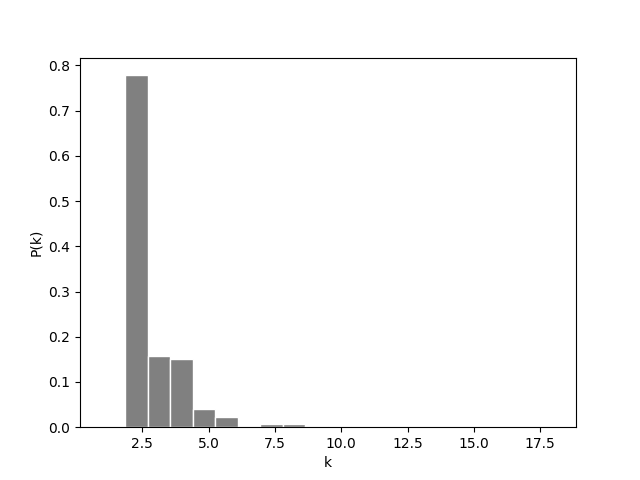
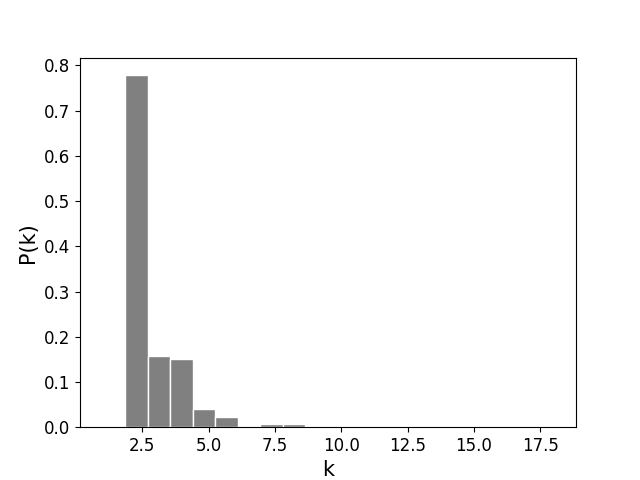
Compute small-world stats

diff --git a/Project/small_world.py b/Project/small_world.py
@@ -1,9 +1,12 @@
 import random
+import time
+
 import networkx as nx
 import numpy as np
 import os
 import pickle
 import matplotlib.pyplot as plt
+import pandas as pd
 from networkx import NetworkXNoPath
 from pprint import pprint
 
@@ -83,11 +86,14 @@ def plot_mean_path_N(net, connections, out_folder="", load=False, n_reps=100):
         f.close()
 
     fit = np.polyfit(np.log10(N), mean_path, 1)
+    fig = plt.figure()
     plt.plot(N, mean_path, 'ko-')
     plt.plot(N, fit[0] * np.log10(N) + fit[1], "k-")
     plt.xscale(u'log')
-    plt.xlabel("N")
-    plt.ylabel("D(N)")
+    plt.xlabel(r"$N$", fontsize=15)
+    plt.ylabel(r"$D(N)$", fontsize=15)
+    #plt.xticks(fontsize=12)
+    plt.yticks(fontsize=12)
     # plt.title(f'{seed}')
     plt.savefig(os.path.join(out_folder, 'mean_path_N.png'))
     plt.show()
@@ -99,15 +105,19 @@ def plot_hists(net, bins=20, out_folder=""):
     fig = plt.figure()
     plt.hist(node_degrees, bins=bins,
              density=True, color='grey', edgecolor='white')
-    plt.xlabel("k")
-    plt.ylabel("P(k)")
+    plt.xlabel("k", fontsize=15)
+    plt.ylabel("P(k)", fontsize=15)
+    plt.xticks(fontsize=12)
+    plt.yticks(fontsize=12)
     plt.savefig(os.path.join(out_folder, "PDF.png"))
 
     fig = plt.figure()
     plt.hist(node_degrees, bins=bins, cumulative=-1,
              density=True, color='grey', edgecolor='white')
-    plt.xlabel("k")
-    plt.ylabel("P(k)")
+    plt.xlabel("k", fontsize=15)
+    plt.ylabel("P(k)", fontsize=15)
+    plt.xticks(fontsize=12)
+    plt.yticks(fontsize=12)
     plt.savefig(os.path.join(out_folder, "CCDF.png"))
 
     fig = plt.figure()
@@ -120,8 +130,10 @@ def plot_hists(net, bins=20, out_folder=""):
     plt.plot(10**log_k, fit[0]*(10**log_k)**(-fit[1]), 'k-')
     plt.xscale(u'log')
     plt.title("PDF")
-    plt.xlabel("k")
-    plt.ylabel("P(k)")
+    plt.xlabel("k", fontsize=15)
+    plt.ylabel("P(k)", fontsize=15)
+    plt.xticks(fontsize=12)
+    plt.yticks(fontsize=12)
     plt.savefig(os.path.join(out_folder, "PDF_log.png"))
 
     fig = plt.figure()
@@ -129,17 +141,23 @@ def plot_hists(net, bins=20, out_folder=""):
              log=True, density=True, label='empirical', color='grey', edgecolor='white')
     plt.gca().set_xscale("log")
     plt.title("CCDF")
-    plt.xlabel("k")
-    plt.ylabel("P(k)")
+    plt.xlabel("k", fontsize=15)
+    plt.ylabel("P(k)", fontsize=15)
+    plt.xticks(fontsize=12)
+    plt.yticks(fontsize=12)
     plt.savefig(os.path.join(out_folder, "CCDF_log.png"))
 
 
-def transhipment_and_shortest_path(net, lines, out_folder=""):
+def shortest_routes(net, lines, out_folder=""):
     # Obtain the shortest path using Dijkstra's algorithm
     # paths = dict(nx.all_pairs_dijkstra_path(G, weight='weight'))
     transhipment_dict = {}
     path_length_dict = {}
+    i=0
     for source in net.nodes:
+        i+=1
+        print(f'Node {i}/{len(net.nodes)}')
+        start = time.time()
         for target in net.nodes:
             if target == source:
                 continue
@@ -156,24 +174,59 @@ def transhipment_and_shortest_path(net, lines, out_folder=""):
                         current_stop = next_stop
                     transhipment_dict[(source, target)] = transhipment_dict.get((source, target), [])
                     (transhipment_dict[(source, target)]).append(transhipments_count)
-                    print(f'Shortest path: {len(path)}')
-                    print(f'Number of transhipments: {transhipments_count}')
+                    #print(f'Shortest path: {len(path)}')
+                    #print(f'Number of transhipments: {transhipments_count}')
                 try:
                     path_length_dict[(source, target)] = len(path)
                 except NameError:
                     path_length_dict[(source, target)] = np.inf
-                print(transhipment_dict[(source, target)])
+                #print(transhipment_dict[(source, target)])
             except NetworkXNoPath as e:
                 print(e)
-
+        end = time.time()
+        print(f'Time: {end-start}')
     f = open(os.path.join(out_folder, 'transhipment_dict.pkl'), 'wb')
     pickle.dump(transhipment_dict, f)
     f.close()
     f = open(os.path.join(out_folder, 'path_length_dict.pkl'), 'wb')
     pickle.dump(path_length_dict, f)
     f.close()
+    #pprint(transhipment_dict)
 
-    pprint(transhipment_dict)
+
+def plot_shortest_routes(transhipment_dict, path_length_dict, out_folder=""):
+    fig = plt.figure()
+    unique_lengths, counts_lengths = np.unique(list(path_length_dict.values()), return_counts=True)
+    plt.plot(unique_lengths, counts_lengths/sum(counts_lengths), "ko-")
+    plt.xlabel(r"$l$", fontsize=15)
+    plt.ylabel(r"$P(l)$", fontsize=15)
+    plt.xticks(fontsize=12)
+    plt.yticks(fontsize=12)
+    plt.show()
+    plt.savefig(os.path.join(out_folder, "path_lengths.png"))
+
+    fig = plt.figure()
+    trans_dict_simple = {k: min(transhipment_dict[k]) for k in transhipment_dict.keys()}
+    unique_trans, counts_trans = np.unique(list(trans_dict_simple.values()), return_counts=True)
+    plt.plot(unique_trans, counts_trans/sum(counts_trans), "ko-")
+    plt.xlabel(r'$n_t$', fontsize=15)
+    plt.ylabel(r"$P(n_t)$", fontsize=15)
+    plt.xticks(fontsize=12)
+    plt.yticks(fontsize=12)
+    plt.show()
+    plt.savefig(os.path.join(out_folder, "transhipments.png"))
+
+
+def small_word_stats(net, out_folder=""):
+    net = nx.Graph(net.to_undirected())
+    rand_net = nx.random_reference(net, connectivity=True)
+    df = pd.DataFrame(index=[0], columns=["L_actual", "L_random", "C_actual", "C_random", "sigma"], dtype=float)
+    df['L_actual'] = nx.average_shortest_path_length(net)
+    df['L_random'] = nx.average_shortest_path_length(rand_net)
+    df['C_actual'] = nx.average_clustering(net)
+    df['C_random'] = nx.average_clustering(rand_net)
+    df['sigma'] = (df['C_actual']/df['C_random']) / (df['L_actual']/df['L_random'])
+    df.to_csv(os.path.join(out_folder, 'small_world_stats'))
 
 # nx.draw(sub_net,
 #     nodelist=list(nx.weakly_connected_components(sub_net))[0],

diff --git a/Project/small_world_main.py b/Project/small_world_main.py
@@ -14,16 +14,25 @@ out_folder = 'output'
 G = nx.read_pajek(os.path.join(os.path.dirname(__file__), data_folder, 'bus-bcn.net'))
 
 # Read list of lines for each edge
-df = pd.read_pickle(os.path.join(os.path.dirname(__file__), data_folder, 'bus-bcn-lines.pkl'))
-lines = {(u, v, k): df.loc[(df['source'] == u) & (df['target'] == v), 'lines'].values[0] for u, v, k in
-         G.edges(keys=True)}
-
-# Set the lines for each edge
-nx.set_edge_attributes(G, lines, 'lines')
-
-line_names = list(set(chain(*df['lines'].tolist())))
-f = open(os.path.join(os.path.dirname(__file__), data_folder, 'line-connections.pkl'), 'rb')
-connections = pickle.load(f)
+# df = pd.read_pickle(os.path.join(os.path.dirname(__file__), data_folder, 'bus-bcn-lines.pkl'))
+# lines = {(u, v, k): df.loc[(df['source'] == u) & (df['target'] == v), 'lines'].values[0] for u, v, k in
+#          G.edges(keys=True)}
+#
+# # Set the lines for each edge
+# nx.set_edge_attributes(G, lines, 'lines')
+#
+# line_names = list(set(chain(*df['lines'].tolist())))
+# f = open(os.path.join(os.path.dirname(__file__), data_folder, 'line-connections.pkl'), 'rb')
+# connections = pickle.load(f)
+# f.close()
+# f = open(os.path.join(os.path.dirname(__file__), out_folder, 'transhipment_dict.pkl'), 'rb')
+# transhipment_dict = pickle.load(f)
+# f.close()
+# f = open(os.path.join(os.path.dirname(__file__), out_folder, 'path_length_dict.pkl'), 'rb')
+# path_length_dict = pickle.load(f)
+# f.close()
 #sw.plot_mean_path_N(G, connections, out_folder=os.path.join(os.path.dirname(__file__), out_folder), load=True)
 #sw.plot_hists(G, out_folder=os.path.join(os.path.dirname(__file__), out_folder))
-sw.transhipment_and_shortest_path(G, lines, os.path.join(os.path.dirname(__file__), out_folder))
+#sw.shortest_routes(G, lines, os.path.join(os.path.dirname(__file__), out_folder))
+#sw.plot_shortest_routes(transhipment_dict, path_length_dict, os.path.join(os.path.dirname(__file__), out_folder))
+sw.small_word_stats(G, os.path.join(os.path.dirname(__file__), out_folder))
